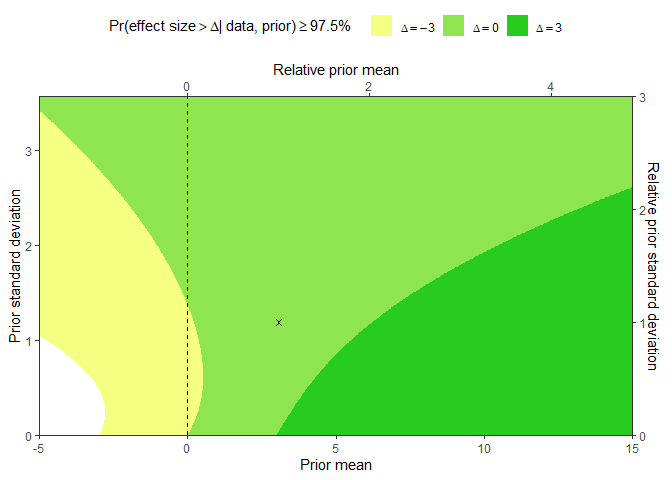
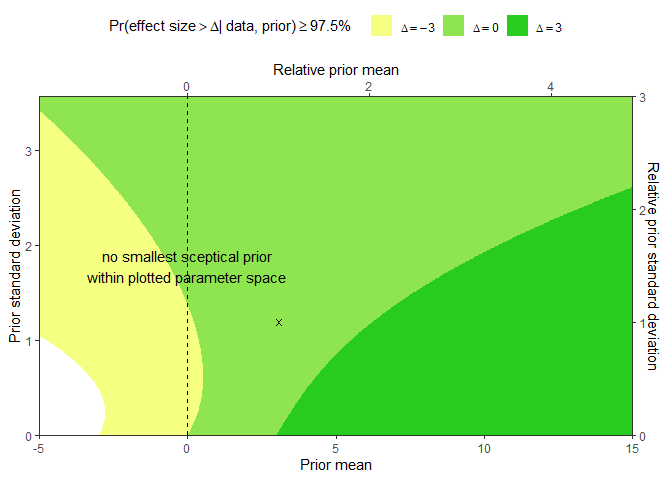
Added option to specify smallest sceptical priors other than mu = 0

Changed region(s): [[0.125, 0.5, 0.4375, 0.5938]]

diff --git a/README.md b/README.md
@@ -21,9 +21,13 @@ Open Science Framework](https://osf.io/jxnsv/). Such regions of evidence
 (RoE) serve to systematically probe the sensitivity of a superiority or
 non-inferiority claim against any prior assumption of its assessors.
 Thus, their presentation aids research transparency and scientific
-evaluation of study findings. Besides generic functions, the package
-also provides an intuitive user interface for a Shiny application, that
-can be run in a local R environment.
+evaluation of study findings.
+
+Besides generic functions, the package also provides an intuitive user
+interface for a Shiny application, that can be run in a local R
+environment. An online version of this application is hosted on
+shinyapps.io:
+[https://htaor.shinyapps.io/shinyroe](https://htaor.shinyapps.io/shinyroe/)
 
 ## Installation
 
@@ -37,16 +41,16 @@ remotes::install_github(repo = "waidschrat/bayesROE")
 
 The following code extends the example from Hoefler and Miller (2023) by
 visualizing the RoE for one non-inferiority claim (delta = -3 pts) and
-the ROEs for two superiority claims (delta = 0 pts and delta = 3 pts)
-for an additional reduction of MADRS scores due to adjunct Esketamine
-treatment of patients suffering from moderate to severe major
+the ROEs for two superiority claims (delta = 0 points and delta = 3
+points) for an additional reduction of MADRS scores due to adjunct
+Esketamine treatment of patients suffering from moderate to severe major
 depression:
 
 ``` r
 library(bayesROE)
 
 # Arguments to reproduce Figure from Hoefler and Miller (2023)
-init <- list(ee = 3.07, se = 1.19, delta = c(-3, 0, 3), alpha = 0.025)
+init <- list(ee = 3.07, se = 1.19, delta = c(-3, 0, 3), alpha = 0.025, sceptPrior = 0)
 cols <- list(col_lower = "#F5FF82", col_upper = "#27CC1E")
 
 # Pass Arguments to Locally Run Shiny Application using run_app()
@@ -55,7 +59,8 @@ if(interactive()){
 }
 
 # Alternatively Generate and Customize Regions of Evidence Plot using ribbonROE()
-HM23.3 <- ribbonROE(ee = init$ee, se = init$se, delta = init$delta, alpha = init$alpha, 
+HM23.3 <- ribbonROE(ee = init$ee, se = init$se, delta = init$delta, alpha = init$alpha,
+                    sceptPrior = init$sceptPrior,
                     cols = c(cols$col_lower, cols$col_upper))$plot + 
   ggplot2::annotate(geom = "point", y = init$ee, x = init$se, shape = 4) +
   ggplot2::coord_flip(ylim = c(-5, 15))
